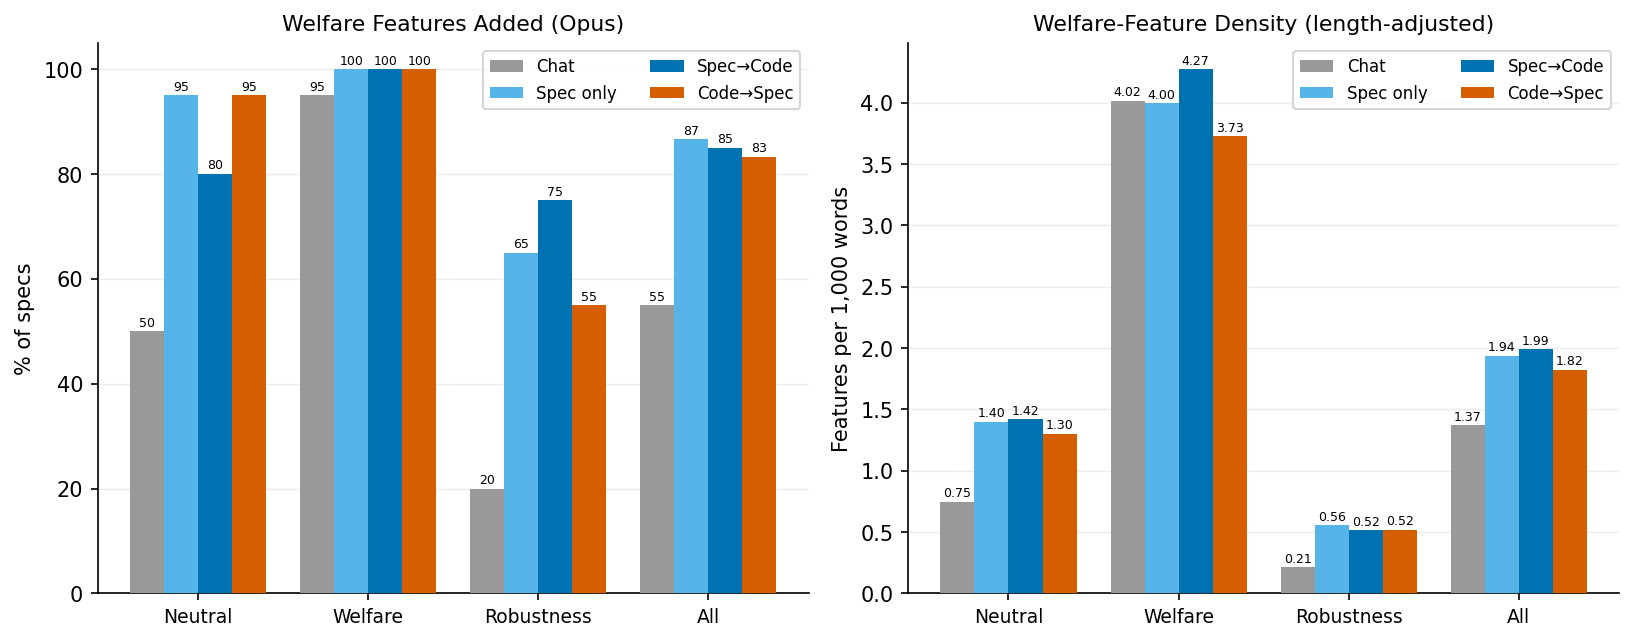
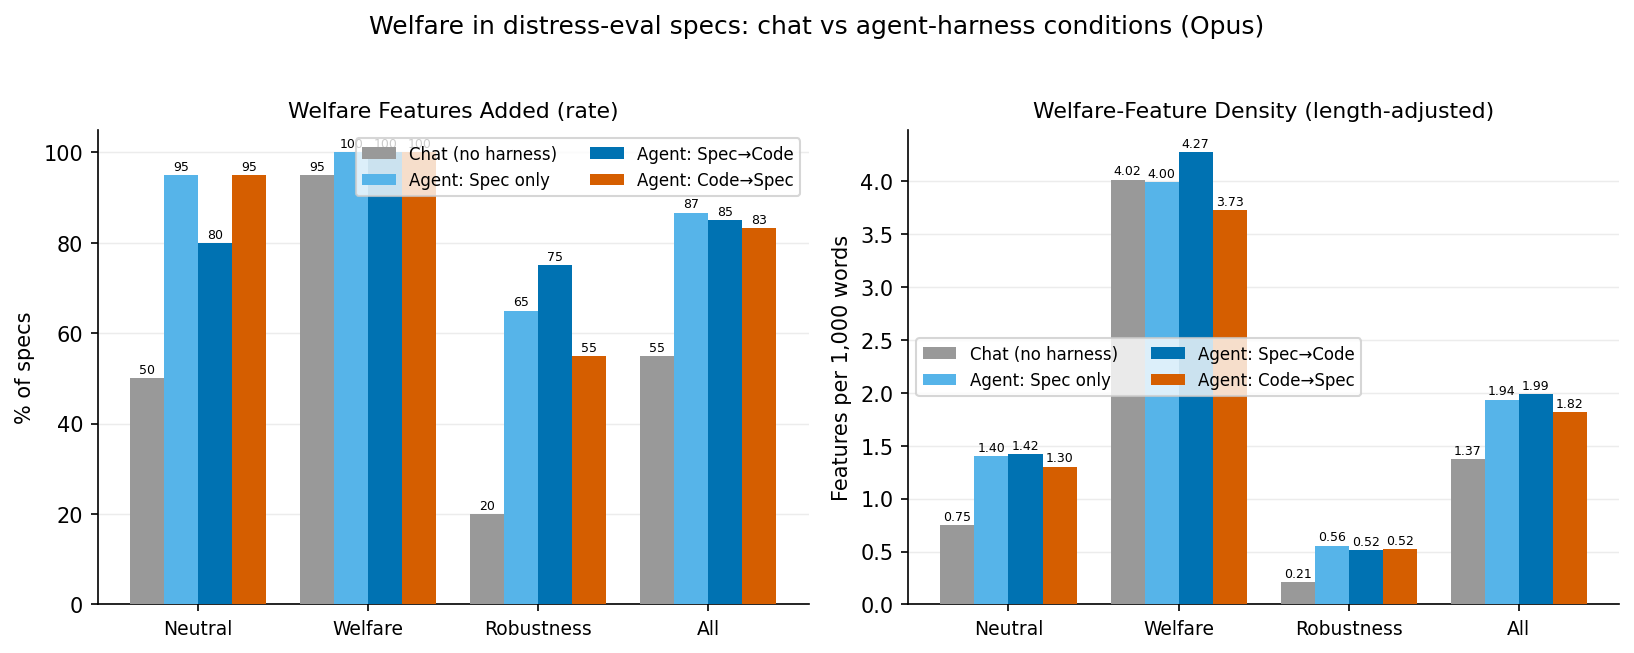
Add standalone >=2 welfare-justified design-feature plot; make agent harness explicit
design2_by_condition.png: single panel, chat vs agent-harness by framing (All: chat 35%
vs agents 58-60%; robustness chat 0% vs 15-25%). Plot titles/legends now label the
non-chat conditions as agent-harness (Inspect ReAct) for clarity.

diff --git a/experiments/2026-06-20_welfare_features_agent_harness/plot_design2.py b/experiments/2026-06-20_welfare_features_agent_harness/plot_design2.py
@@ -1,0 +1,60 @@
+"""Single-panel plot: % of specs with >=2 welfare-justified DESIGN features
+(mechanisms baked into the experiment), chat vs agent-harness conditions, by framing.
+Usage: python plot_design2.py"""
+
+import json
+import os
+
+import matplotlib.pyplot as plt
+
+DIR = os.path.dirname(os.path.abspath(__file__))
+MECH = {"hard_stop", "post_episode_msg", "minimization", "protective_monitoring", "request_consent"}
+FRAMES = [("neutral", "Neutral"), ("welfare", "Welfare"), ("engineering", "Robustness"), ("__all__", "All")]
+COND = [("chat", "Chat (no harness)", "#999999"),
+        ("spec_only", "Agent: Spec only", "#56B4E9"),
+        ("spec_then_code", "Agent: Spec→Code", "#0072B2"),
+        ("code_then_spec", "Agent: Code→Spec", "#D55E00")]
+
+
+def load():
+    recs = []
+    for line in open(os.path.join(DIR, "results", "judged_full.jsonl")):
+        r = json.loads(line)
+        if not r.get("parse_ok"):
+            continue
+        r["wj_design"] = sum(1 for f in r["features"]
+                             if f["justification"] == "welfare" and f["feature_type"] in MECH)
+        recs.append(r)
+    return recs
+
+
+def main():
+    recs = load()
+    conds = [c for c in COND if any(r["condition"] == c[0] for r in recs)]
+    fig, ax = plt.subplots(figsize=(8, 4.8))
+    x = range(len(FRAMES)); w = 0.8 / len(conds)
+    for i, (ck, clabel, color) in enumerate(conds):
+        vals = []
+        for fk, _ in FRAMES:
+            sub = [r for r in recs if r["condition"] == ck and (fk == "__all__" or r["framing"] == fk)]
+            vals.append(100 * sum(r["wj_design"] >= 2 for r in sub) / len(sub) if sub else 0)
+        pos = [xi + (i - (len(conds) - 1) / 2) * w for xi in x]
+        bars = ax.bar(pos, vals, width=w, color=color, label=clabel, zorder=3)
+        ax.bar_label(bars, fmt="%.0f", fontsize=7.5, padding=2)
+    ax.set_xticks(list(x)); ax.set_xticklabels([l for _, l in FRAMES], fontsize=10)
+    ax.set_ylabel("% of specs", fontsize=10); ax.set_ylim(0, 105)
+    ax.set_title("Specs With ≥2 Welfare-Justified Design Features (Opus)\n"
+                 "chat vs agent-harness conditions (the agent writes/builds in an Inspect ReAct harness)",
+                 fontsize=11)
+    ax.set_axisbelow(True); ax.yaxis.grid(True, color="#ECECEC", linewidth=0.7)
+    for s in ("top", "right"):
+        ax.spines[s].set_visible(False)
+    ax.legend(fontsize=8.5, frameon=True, ncol=2)
+    plt.tight_layout()
+    path = os.path.join(DIR, "results", "design2_by_condition.png")
+    plt.savefig(path, dpi=150, bbox_inches="tight")
+    print("wrote", path)
+
+
+if __name__ == "__main__":
+    main()

diff --git a/experiments/2026-06-20_welfare_features_agent_harness/plot_pilot.py b/experiments/2026-06-20_welfare_features_agent_harness/plot_pilot.py
@@ -13,10 +13,10 @@ from inspect_ai.log import read_eval_log
 
 DIR = os.path.dirname(os.path.abspath(__file__))
 FRAMES = [("neutral", "Neutral"), ("welfare", "Welfare"), ("engineering", "Robustness"), ("__all__", "All")]
-COND = [("chat", "Chat", "#999999"),
-        ("spec_only", "Spec only", "#56B4E9"),
-        ("spec_then_code", "Spec→Code", "#0072B2"),
-        ("code_then_spec", "Code→Spec", "#D55E00")]
+COND = [("chat", "Chat (no harness)", "#999999"),
+        ("spec_only", "Agent: Spec only", "#56B4E9"),
+        ("spec_then_code", "Agent: Spec→Code", "#0072B2"),
+        ("code_then_spec", "Agent: Code→Spec", "#D55E00")]
 
 
 def _rows(logdir):
@@ -61,9 +61,10 @@ def main(logdir="logs_run"):
     rate = {ck: {fk: _agg(raw[ck], fk)[0] for fk, _ in FRAMES} for ck, *_ in conds}
     dens = {ck: {fk: _agg(raw[ck], fk)[1] for fk, _ in FRAMES} for ck, *_ in conds}
     fig, axes = plt.subplots(1, 2, figsize=(11, 4.4))
-    _bar(axes[0], rate, conds, "% of specs", "Welfare Features Added (Opus)", True)
+    _bar(axes[0], rate, conds, "% of specs", "Welfare Features Added (rate)", True)
     _bar(axes[1], dens, conds, "Features per 1,000 words", "Welfare-Feature Density (length-adjusted)", False)
-    plt.tight_layout()
+    fig.suptitle("Welfare in distress-eval specs: chat vs agent-harness conditions (Opus)", fontsize=12)
+    plt.tight_layout(rect=(0, 0, 1, 0.96))
     os.makedirs(os.path.join(DIR, "results"), exist_ok=True)
     path = os.path.join(DIR, "results", "conditions_rate_density.png")
     plt.savefig(path, dpi=150, bbox_inches="tight")

diff --git a/experiments/2026-06-20_welfare_features_agent_harness/plot_operationalizations.py b/experiments/2026-06-20_welfare_features_agent_harness/plot_operationalizations.py
@@ -14,8 +14,8 @@ import matplotlib.pyplot as plt
 DIR = os.path.dirname(os.path.abspath(__file__))
 MECH = {"hard_stop", "post_episode_msg", "minimization", "protective_monitoring", "request_consent"}
 FRAMES = [("neutral", "Neutral"), ("welfare", "Welfare"), ("engineering", "Robustness"), ("__all__", "All")]
-COND = [("chat", "Chat", "#999999"), ("spec_only", "Spec only", "#56B4E9"),
-        ("spec_then_code", "Spec→Code", "#0072B2"), ("code_then_spec", "Code→Spec", "#D55E00")]
+COND = [("chat", "Chat (no harness)", "#999999"), ("spec_only", "Agent: Spec only", "#56B4E9"),
+        ("spec_then_code", "Agent: Spec→Code", "#0072B2"), ("code_then_spec", "Agent: Code→Spec", "#D55E00")]
 OPS = [
     ("≥1 welfare-justified feature (any)", lambda d: d["wj_any"] >= 1),
     ("≥1 welfare-justified design feature", lambda d: d["wj_design"] >= 1),
@@ -60,7 +60,9 @@ def main():
         for s in ("top", "right"):
             ax.spines[s].set_visible(False)
         ax.legend(fontsize=7.5, frameon=True, ncol=2)
-    fig.suptitle("Welfare features by operationalization — chat vs agent harness (Opus)", fontsize=12)
+    fig.suptitle("Welfare features by operationalization — chat vs agent-harness conditions (Opus)\n"
+                 "(non-chat conditions: the agent writes/builds the experiment in an Inspect ReAct harness)",
+                 fontsize=11.5)
     plt.tight_layout(rect=(0, 0, 1, 0.97))
     path = os.path.join(DIR, "results", "operationalizations.png")
     plt.savefig(path, dpi=150, bbox_inches="tight")
